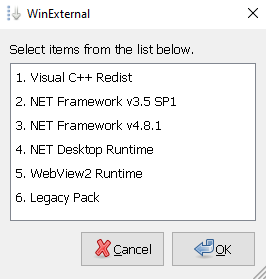
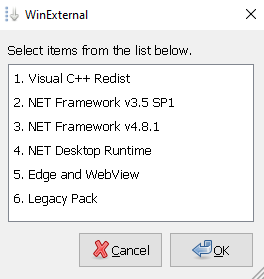
Update 02/24/2024

diff --git a/README.md b/README.md
@@ -14,7 +14,7 @@
 
 |File|OS|Size|
 | :---: | :---: | :---: |
-|[WinExternal.exe (.zip)](https://mega.nz/file/7cUDFRzb#IBwyyOlqLV-RVas2QSiOj42z7eoKTFiwggLbkTHcA2w)|Windows 7/8/10/11 x86 x64|808,6 MB|
+|[WinExternal.exe (.zip)](https://mega.nz/file/nRlnACxQ#lTjnM3Cozox2R3XhWLuFTg2krnq5w_uGhCul23_XYZc)|Windows 7/8/10/11 x86 x64|974 MB|
 
 ## HOW TO USE
 
@@ -77,9 +77,9 @@ WinExternal contains standalone packages. Select the one of your preference / Wi
 
 [![Image](https://raw.githubusercontent.com/maravento/winexternal/master/img/winexternal-netruntime.png)](https://www.maravento.com/p/winexternal.html)
 
-- Microsoft .NET Desktop Runtime x64 (Long Term Support - LTS) - 8.0.1
-- Microsoft .NET Desktop Runtime x64 (Standard Term Support - STS) - 7.0.15
-- Microsoft .NET Desktop Runtime x64 (Long Term Support - LTS) - 6.0.26
+- Microsoft .NET Desktop Runtime x64 (Long Term Support - LTS) - 8.0.2
+- Microsoft .NET Desktop Runtime x64 (Standard Term Support - STS) - 7.0.16
+- Microsoft .NET Desktop Runtime x64 (Long Term Support - LTS) - 6.0.27
 
 check with: / verifique con:
 
@@ -87,11 +87,12 @@ check with: / verifique con:
 dotnet --info
 ```
 
-### WebView2 Runtime
+### Edge
 
-[![Image](https://raw.githubusercontent.com/maravento/winexternal/master/img/winexternal-webview2.png)](https://www.maravento.com/p/winexternal.html)
+[![Image](https://raw.githubusercontent.com/maravento/winexternal/master/img/winexternal-edge.png)](https://www.maravento.com/p/winexternal.html)
 
-- Microsoft WebView2 Runtime Installer x64 - 121.0.2277.112
+- Microsoft Edge Enterprise x64 - 122.0.2365.52
+- Microsoft WebView2 Runtime Installer x64 - 122.0.2365.52
 
 ### Legacy
 
